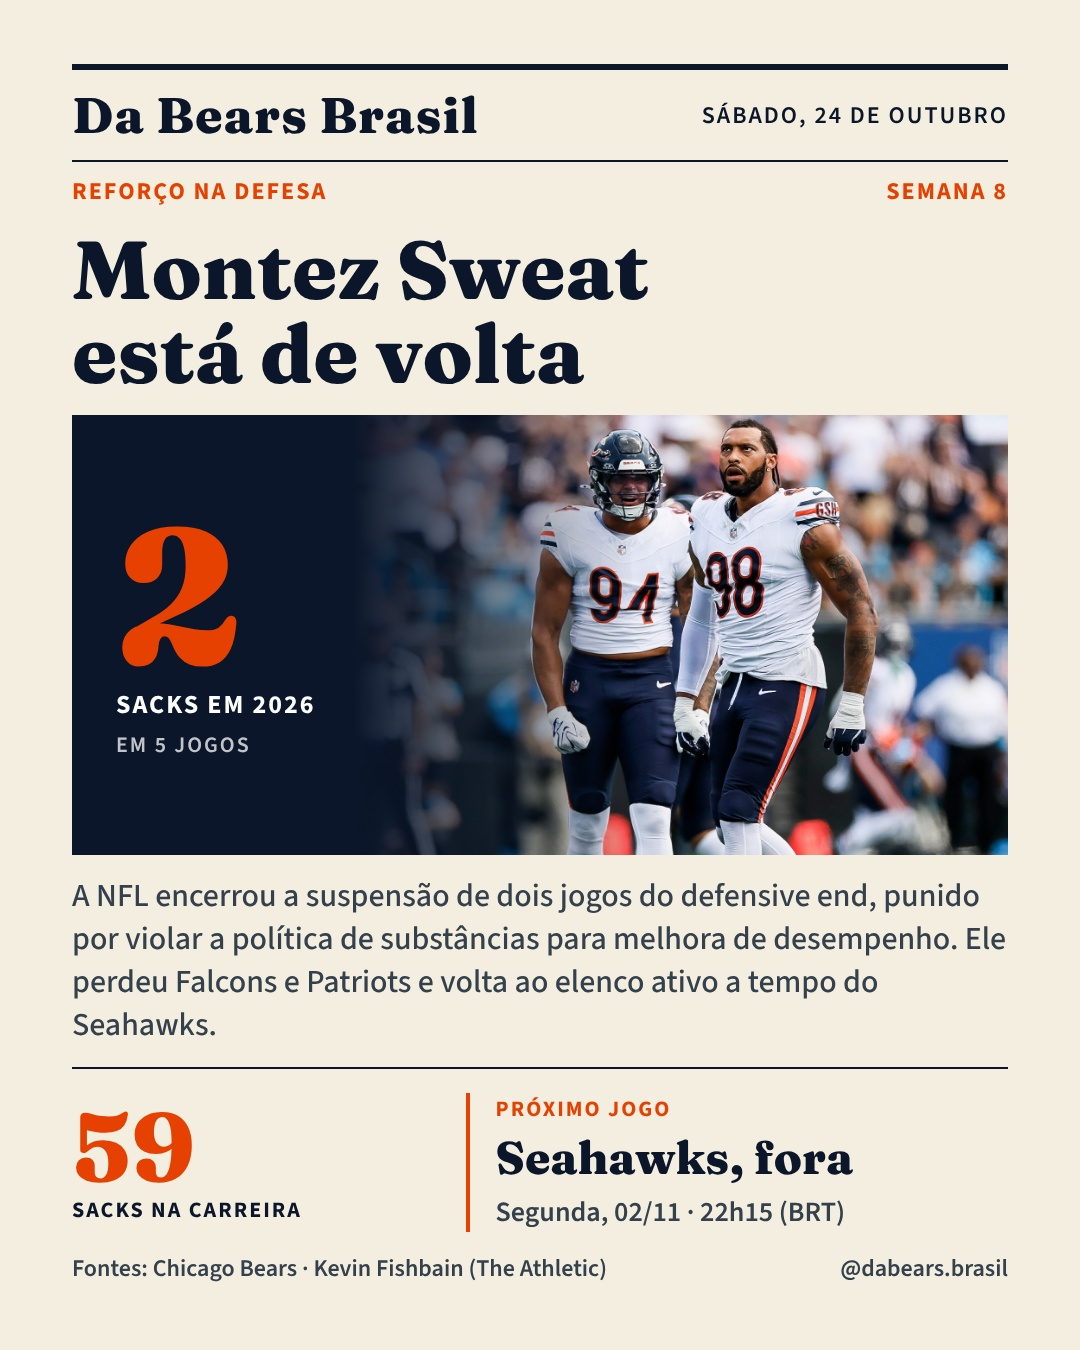
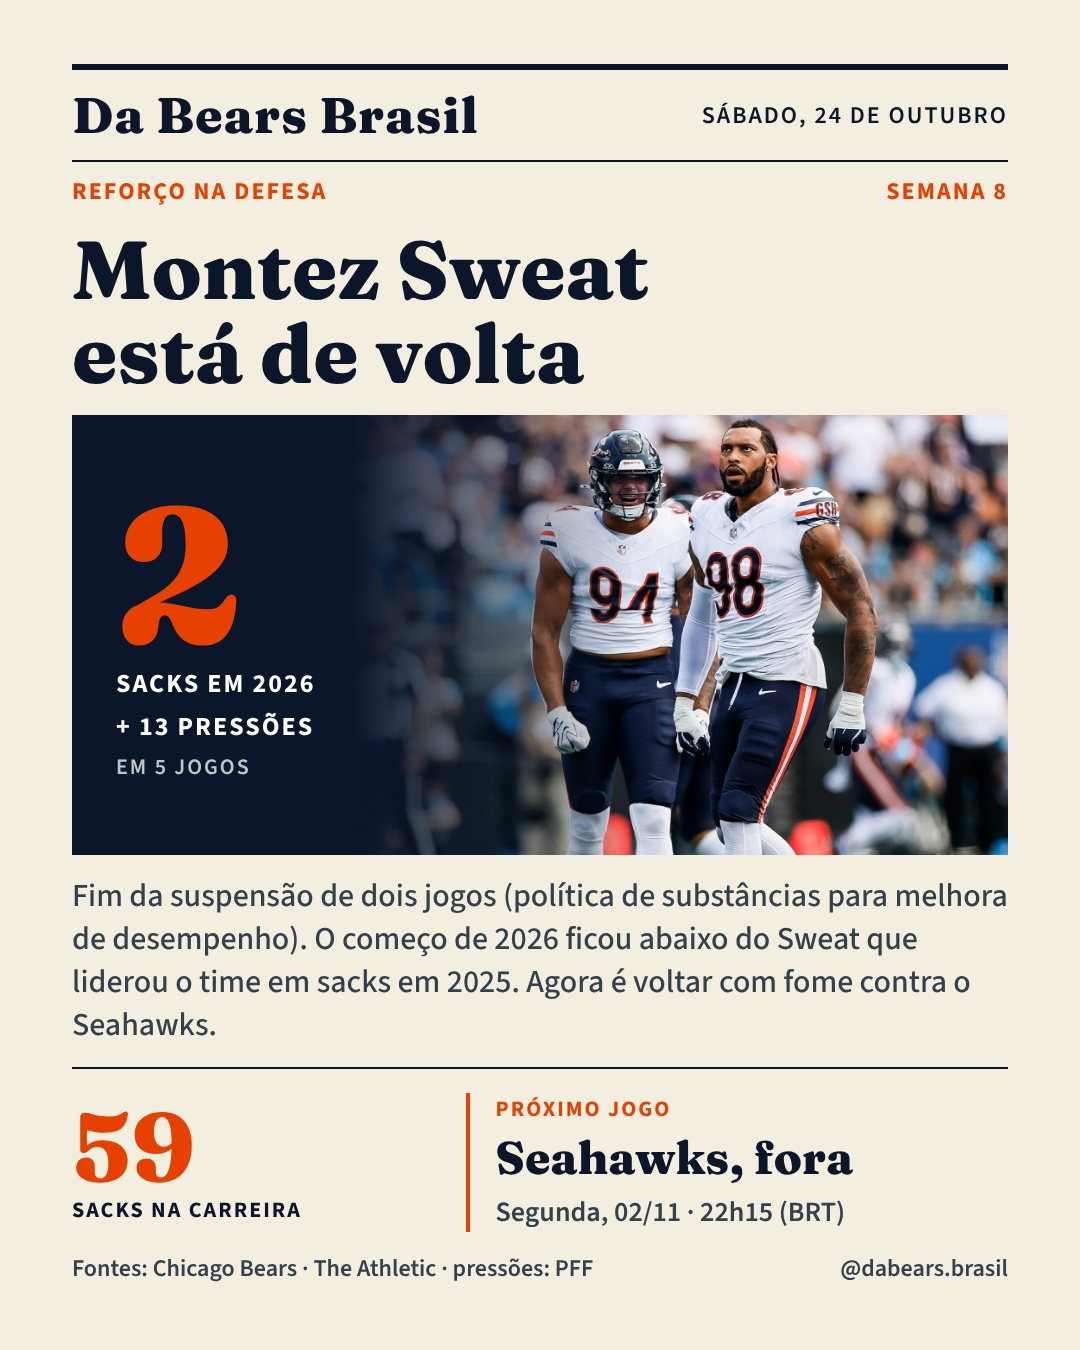
Sweat: 2 sacks + 13 pressões (PFF), tom otimista; regra de número ruim com tom de torcedor
Claude-Session: https://claude.ai/code/session_018rX6mMSRpSnpVKEAhkkD81

Changed region(s): [[0.0611, 0.6533, 0.9472, 0.7467], [0.0917, 0.3733, 0.3056, 0.5911], [0.275, 0.9333, 0.55, 0.9644]]

diff --git a/posts/2026-10-24/1000-montez-sweat-de-volta/src/1.dc.html b/posts/2026-10-24/1000-montez-sweat-de-volta/src/1.dc.html
@@ -31,11 +31,12 @@ body{margin:0}
 <div style="position: absolute; left: 44px; top: 0; bottom: 0; display: flex; flex-direction: column; justify-content: center; gap: 6px">
 <span style="font-family: 'Fraunces', serif; font-weight: 800; font-size: 190px; line-height: 0.9; color: #E64100">2</span>
 <span style="font-weight: 700; font-size: 26px; letter-spacing: 2px">SACKS EM 2026</span>
+<span style="font-weight: 700; font-size: 26px; letter-spacing: 2px">+ 13 PRESSÕES</span>
 <span style="font-weight: 600; font-size: 22px; letter-spacing: 2px; opacity: 0.75">EM 5 JOGOS</span>
 </div>
 </div>
 
-<p style="margin: 0; font-weight: 500; font-size: 32px; line-height: 1.35; color: #34414D">A NFL encerrou a suspensão de dois jogos do defensive end, punido por violar a política de substâncias para melhora de desempenho. Ele perdeu Falcons e Patriots e volta ao elenco ativo a tempo do Seahawks.</p>
+<p style="margin: 0; font-weight: 500; font-size: 32px; line-height: 1.35; color: #34414D">Fim da suspensão de dois jogos (política de substâncias para melhora de desempenho). O começo de 2026 ficou abaixo do Sweat que liderou o time em sacks em 2025. Agora é voltar com fome contra o Seahawks.</p>
 
 <div style="display: grid; grid-template-columns: minmax(0, 1fr) minmax(0, 1.5fr); gap: 32px; align-items: center; border-top: 2px solid #0B162A; padding-top: 24px">
 <div style="display: flex; flex-direction: column">
@@ -50,7 +51,7 @@ body{margin:0}
 </div>
 
 <div style="display: flex; justify-content: space-between; font-weight: 600; font-size: 24px; color: #34414D">
-<span>Fontes: Chicago Bears · Kevin Fishbain (The Athletic)</span>
+<span>Fontes: Chicago Bears · The Athletic · pressões: PFF</span>
 <span>@dabears.brasil</span>
 </div>
 </div>

diff --git a/CLAUDE.md b/CLAUDE.md
@@ -53,6 +53,7 @@ Toda execução agendada começa lendo este arquivo. Escreva tudo para o Victor 
 - Adversário: só o nome (na cor do time adversário ou em branco). Sem logo nem foto do adversário.
 - Revise duas vezes: nomes, números, placar, data, horário, acentos. Nada repetido entre cards.
 - **Números da temporada atual em destaque** (Victor, 23/10): o dado principal de um card de jogador é da temporada em curso. Temporada passada só como apoio, se fizer sentido para a notícia.
+- **Número ruim não se esconde, mas o tom é de torcedor** (Victor, 23/10): mostre o dado real mesmo quando é fraco (ex.: Sweat com 2 sacks e 13 pressões) e fale com otimismo do que vem pela frente ("voltar com fome"). Pressões não são estatística oficial: cite a fonte (PFF, NFL Pro…) no card e na legenda.
 
 ## Marca
 - **Marcações** (Victor, 23/10): no máximo 1 a 3 por post, só de quem está no post.
